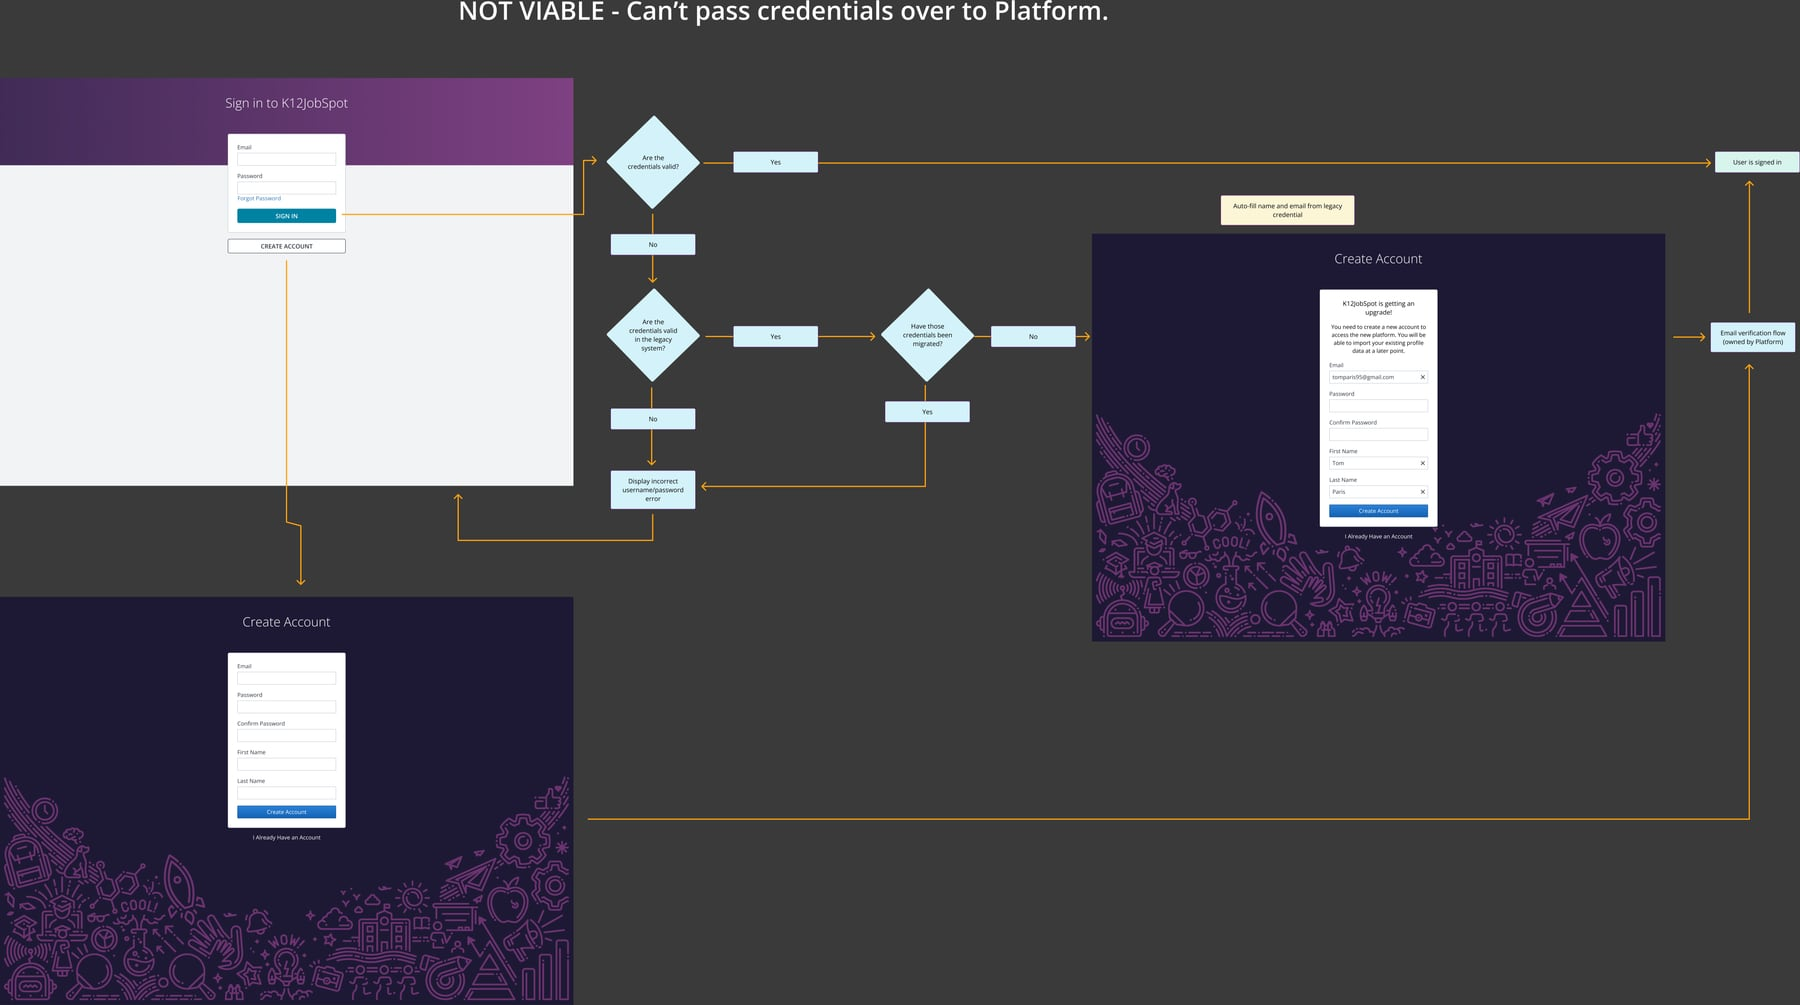
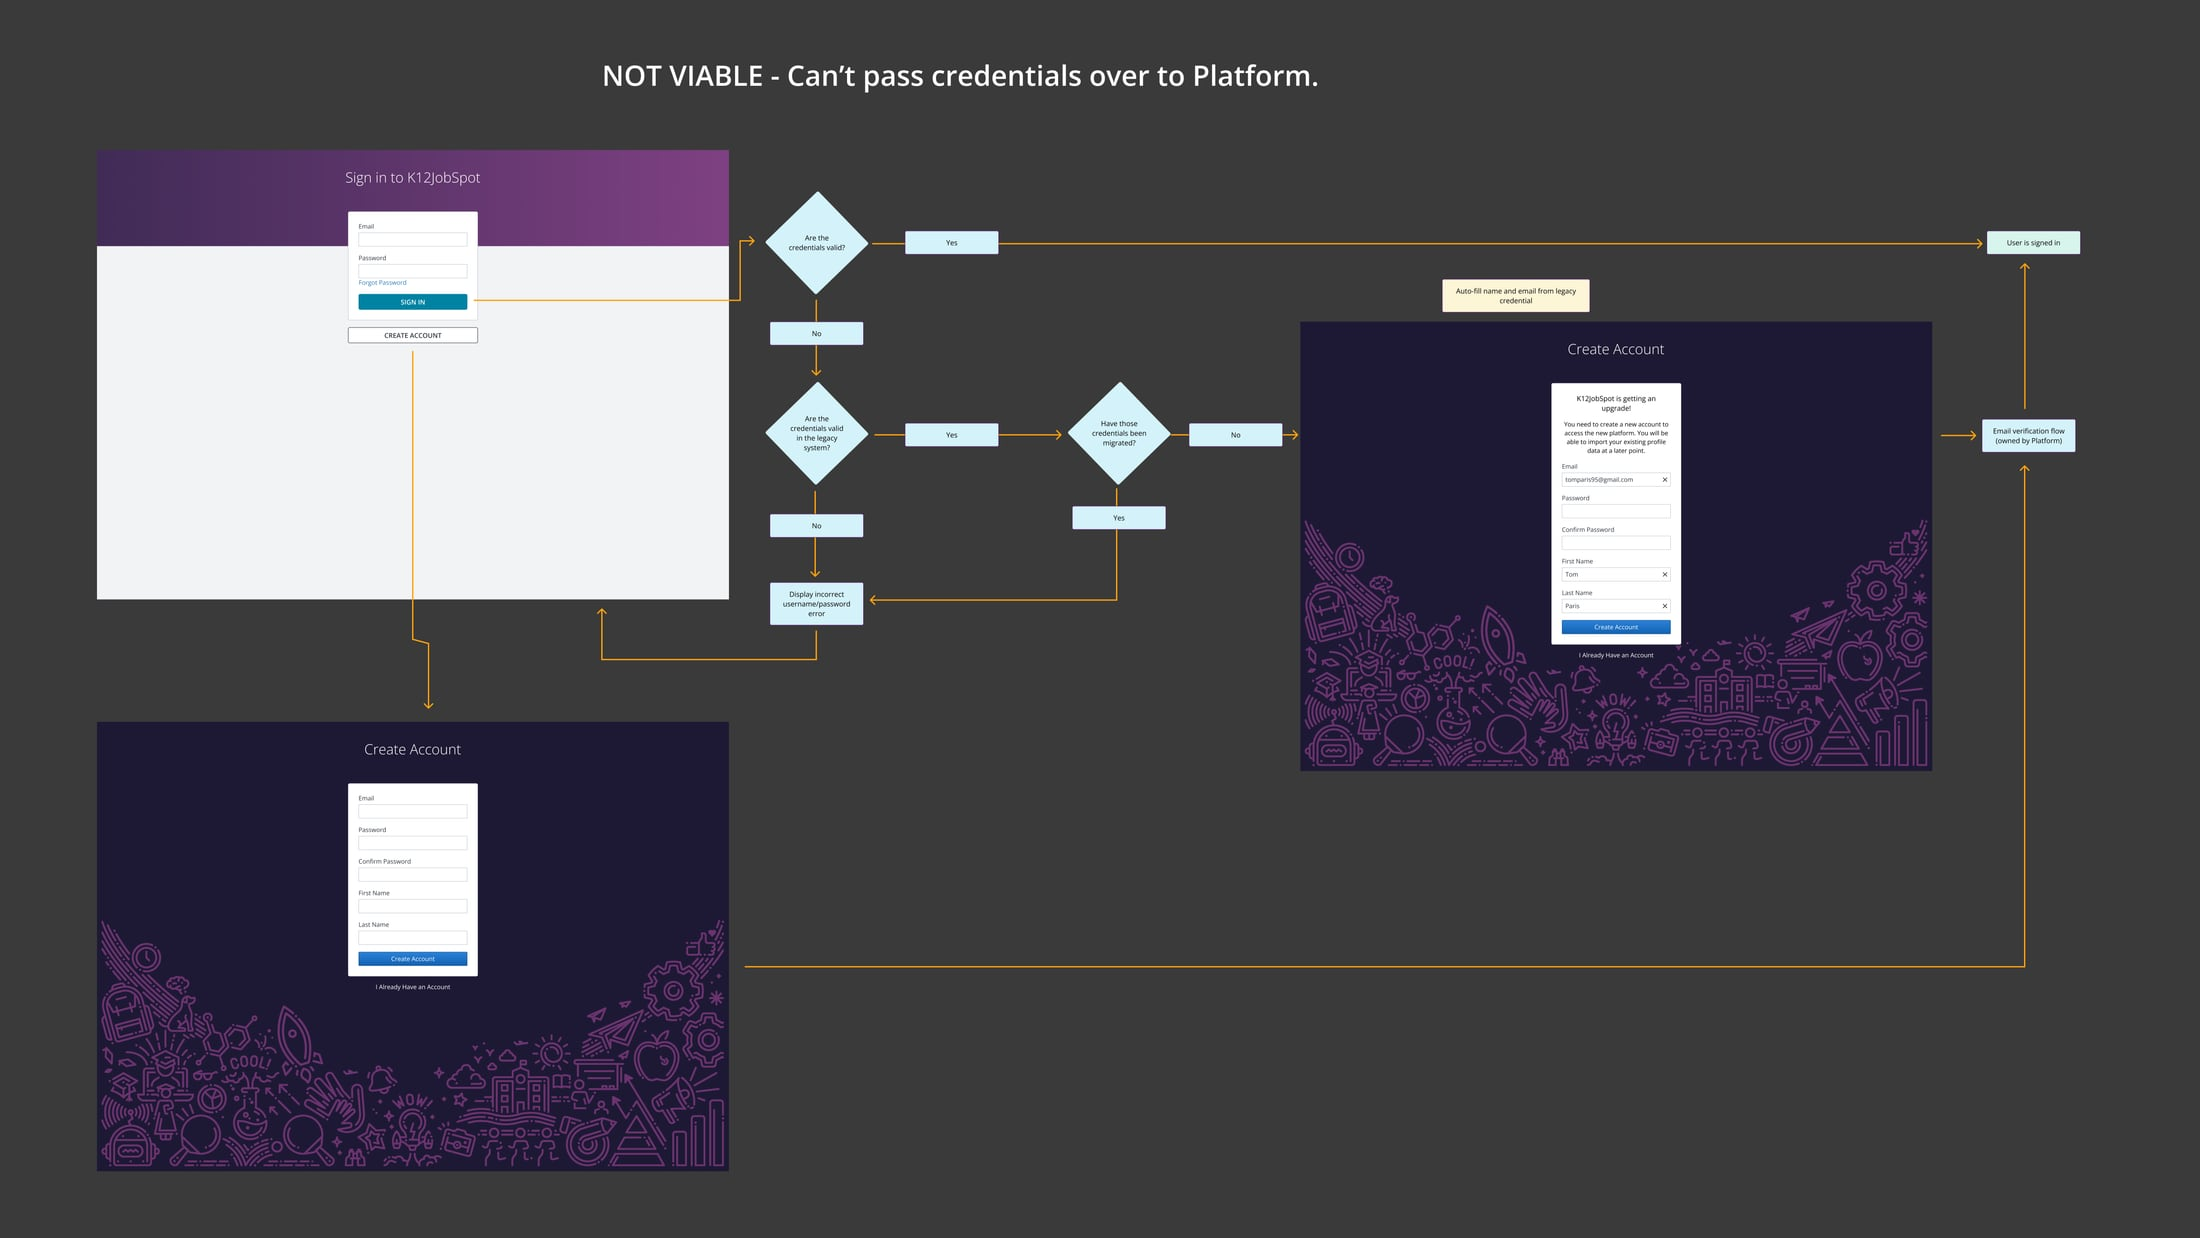
Fix case study image issues: no cropping, working lightbox, full-width figures
- Re-export all 10 images from the untrimmed source canvas — the
  earlier auto-crop of empty margins was never asked for
- Fix lightbox clicks silently failing: <img> is draggable by
  default, so a real click with a pixel or two of drift between
  mousedown/mouseup starts a native drag instead of firing "click".
  Disable dragging on every clickable image (lightbox, gallery,
  spread-viewer frame, zoom trigger)
- Make the standalone figures (images 1, 2, 3, 9) span the full
  content width instead of a centered 760px column, matching the
  hero figure's width

diff --git a/case-studies/k12-migration-redesign.html b/case-studies/k12-migration-redesign.html
@@ -58,12 +58,10 @@
       <img src="../images/k12migration-hero.svg" alt="Abstract flow diagram showing a tangled multi-step branching flow resolving into a short, direct flow">
     </figure>
 
-    <div class="container">
-      <figure class="project-inline-figure project-inline-figure--lightbox">
-        <img src="../images/1_K12JSAuthMigrationDiagram.jpg" alt="Diagram mapping legacy and NextGen accounts across K12JobSpot and Frontline's other product, color-coded by B2C and B2B users, with dotted lines for job postings and notes on migration constraints">
-        <figcaption>Caption placeholder — replace with real copy.</figcaption>
-      </figure>
-    </div>
+    <figure class="project-figure project-figure--lightbox container">
+      <img src="../images/1_K12JSAuthMigrationDiagram.jpg" alt="Diagram mapping legacy and NextGen accounts across K12JobSpot and Frontline's other product, color-coded by B2C and B2B users, with dotted lines for job postings and notes on migration constraints">
+      <figcaption>Caption placeholder — replace with real copy.</figcaption>
+    </figure>
 
     <div class="container">
       <div class="project-body">
@@ -76,12 +74,10 @@
       </div>
     </div>
 
-    <div class="container">
-      <figure class="project-inline-figure project-inline-figure--lightbox">
-        <img src="../images/2_K12JSAuthStartingFlow.jpg" alt="Annotated flowchart of the original migration screens, walking through the starting screen's three choices, sign-in, account creation, and several info-only and two-choice steps before a user reaches the product">
-        <figcaption>Caption placeholder — replace with real copy.</figcaption>
-      </figure>
-    </div>
+    <figure class="project-figure project-figure--lightbox container">
+      <img src="../images/2_K12JSAuthStartingFlow.jpg" alt="Annotated flowchart of the original migration screens, walking through the starting screen's three choices, sign-in, account creation, and several info-only and two-choice steps before a user reaches the product">
+      <figcaption>Caption placeholder — replace with real copy.</figcaption>
+    </figure>
 
     <div class="container">
       <div class="project-body">
@@ -110,12 +106,10 @@
       </figure>
     </div>
 
-    <div class="container">
-      <figure class="project-inline-figure project-inline-figure--lightbox">
-        <img src="../images/3_K12JSAuthOnboarding.jpg" alt="Screenshot of the K12JobSpot onboarding flow's Upload Resume step, with a stepper for Upload Resume, Add Personal Details, Add Certificates &amp; Licenses, and Set Profile Visibility">
-        <figcaption>Caption placeholder — replace with real copy.</figcaption>
-      </figure>
-    </div>
+    <figure class="project-figure project-figure--lightbox container">
+      <img src="../images/3_K12JSAuthOnboarding.jpg" alt="Screenshot of the K12JobSpot onboarding flow's Upload Resume step, with a stepper for Upload Resume, Add Personal Details, Add Certificates &amp; Licenses, and Set Profile Visibility">
+      <figcaption>Caption placeholder — replace with real copy.</figcaption>
+    </figure>
 
     <div class="container">
       <div class="project-body">
@@ -202,12 +196,10 @@
       </div>
     </div>
 
-    <div class="container">
-      <figure class="project-inline-figure project-inline-figure--lightbox">
-        <img src="../images/9_K12JSAuthBandaid.jpg" alt="Screenshot of the shipped sign-in modal warning that accounts older than a cutoff date must create a new account, with Sign In and Create Account buttons">
-        <figcaption>Caption placeholder — replace with real copy.</figcaption>
-      </figure>
-    </div>
+    <figure class="project-figure project-figure--lightbox container">
+      <img src="../images/9_K12JSAuthBandaid.jpg" alt="Screenshot of the shipped sign-in modal warning that accounts older than a cutoff date must create a new account, with Sign In and Create Account buttons">
+      <figcaption>Caption placeholder — replace with real copy.</figcaption>
+    </figure>
 
     <div class="container">
       <div class="project-body">

diff --git a/main.js b/main.js
@@ -130,7 +130,7 @@ function buildLightbox() {
     <button type="button" class="lightbox__close" aria-label="Close">✕</button>
     <button type="button" class="lightbox__arrow lightbox__arrow--prev" aria-label="Previous image">‹</button>
     <figure class="lightbox__figure">
-      <img class="lightbox__img" alt="">
+      <img class="lightbox__img" alt="" draggable="false">
     </figure>
     <button type="button" class="lightbox__arrow lightbox__arrow--next" aria-label="Next image">›</button>
   `;
@@ -222,6 +222,8 @@ document.querySelectorAll(".spread-viewer").forEach((viewer) => {
   const frame = viewer.querySelector(".spread-viewer__frame");
   if (!slideList || !stageImg || !prev || !next) return;
 
+  stageImg.draggable = false;
+
   const slides = Array.from(slideList.children).map((li) => {
     const img = li.querySelector("img");
     const paragraphs = Array.from(li.querySelectorAll("p")).map((p) => p.textContent.trim());
@@ -301,6 +303,10 @@ function wireLightboxImages(images) {
   images.forEach((img, index) => {
     img.setAttribute("role", "button");
     img.setAttribute("tabindex", "0");
+    // Images are natively draggable; without this, a real click that drifts
+    // a pixel or two between mousedown and mouseup starts a drag instead of
+    // firing "click", which silently swallows the lightbox open.
+    img.draggable = false;
     img.addEventListener("click", () => openLightbox(images, index));
     img.addEventListener("keydown", (event) => {
       if (event.key === "Enter" || event.key === " ") {
@@ -315,7 +321,7 @@ document.querySelectorAll(".gallery").forEach((gallery) => {
   wireLightboxImages(Array.from(gallery.querySelectorAll("img")));
 });
 
-document.querySelectorAll(".project-inline-figure--lightbox").forEach((figure) => {
+document.querySelectorAll(".project-figure--lightbox").forEach((figure) => {
   const img = figure.querySelector("img");
   if (img) wireLightboxImages([img]);
 });
@@ -566,5 +572,7 @@ function onZoomKeydown(event) {
 }
 
 document.querySelectorAll(".zoom-figure__trigger").forEach((trigger) => {
+  const triggerImg = trigger.querySelector("img");
+  if (triggerImg) triggerImg.draggable = false;
   trigger.addEventListener("click", () => openZoomViewer(trigger));
 });

diff --git a/styles.css b/styles.css
@@ -753,6 +753,27 @@ a {
   background: var(--color-surface);
 }
 
+.project-figure figcaption {
+  margin-top: 0.75rem;
+  font-size: 0.85rem;
+  color: var(--color-muted);
+}
+
+.project-figure--lightbox {
+  margin-block: clamp(2.5rem, 6vw, 4rem);
+}
+
+.project-figure--lightbox img {
+  cursor: pointer;
+  transition: opacity 0.25s ease;
+  -webkit-user-drag: none;
+  user-select: none;
+}
+
+.project-figure--lightbox img:hover {
+  opacity: 0.85;
+}
+
 .project-inline-figure {
   margin: 0 auto clamp(2.5rem, 6vw, 4rem);
   max-width: 760px;
@@ -1056,15 +1077,6 @@ body.lightbox-open {
     height: 2.5rem;
     font-size: 1.25rem;
   }
-}
-
-.project-inline-figure--lightbox img {
-  cursor: pointer;
-  transition: opacity 0.25s ease;
-}
-
-.project-inline-figure--lightbox img:hover {
-  opacity: 0.85;
 }
 
 /* -------------------------------------------------- */
